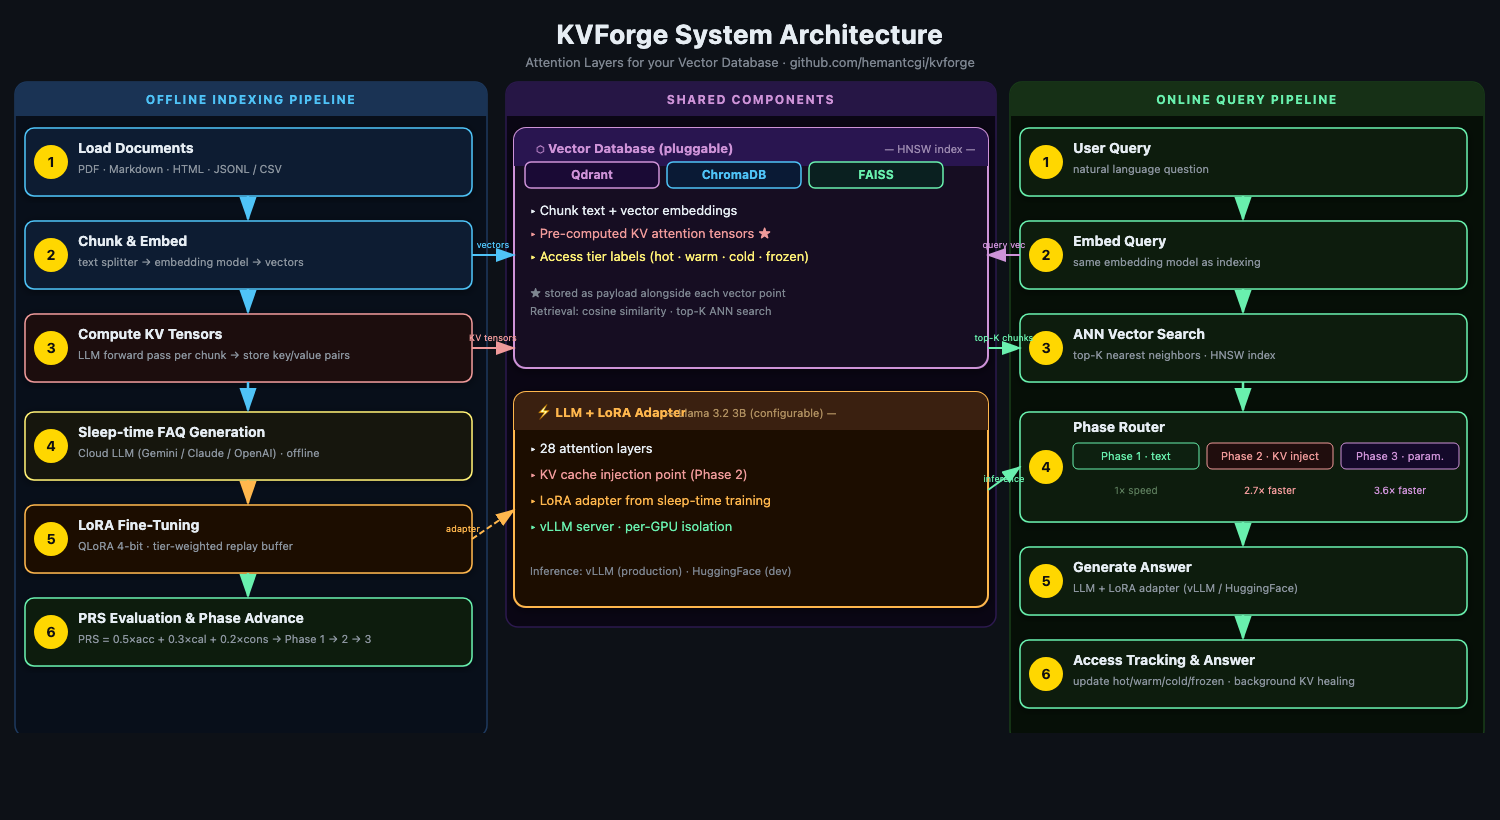
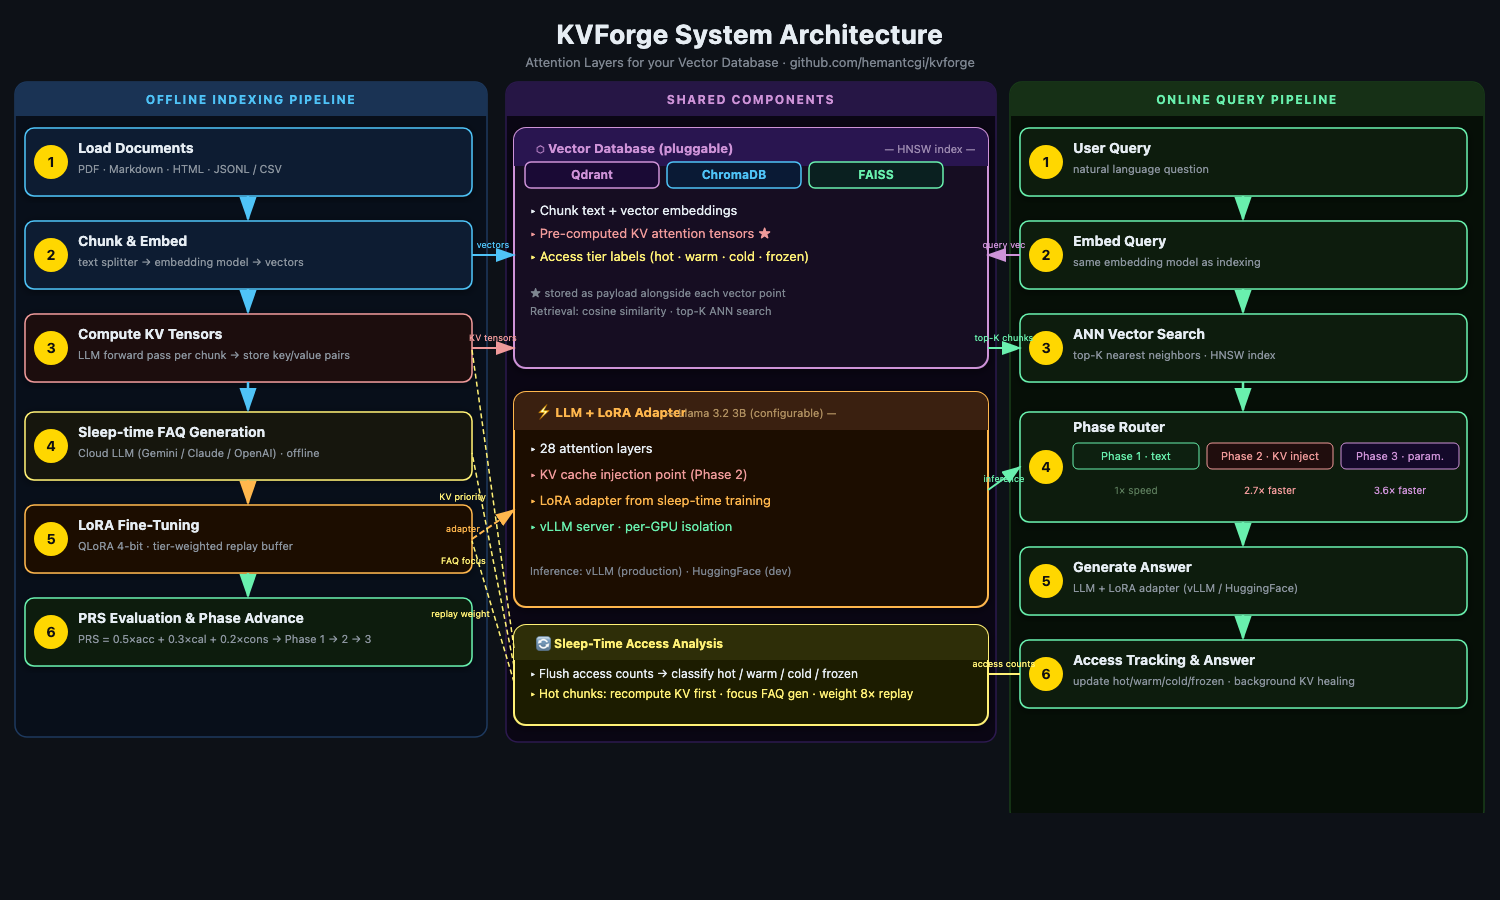
docs: add sleep-time access analysis detail to paper and diagram
Research paper:
- Expand §4.5 into full 'Sleep-Time Access Analysis and Tier Classification'
  section (3 subsections: continuous tracking, tier classification, downstream
  utilization with priority table for KV recompute, FAQ gen, replay buffer)
- Expand §6.3 with production impact analysis (KV latency reduction, training
  signal alignment, catastrophic forgetting prevention)

Architecture diagram:
- Add 'Sleep-Time Access Analysis' box in shared components column
- Add yellow dashed feedback arrows: Access Tracking → analysis box → KV
  Compute priority, FAQ generation focus, LoRA replay weight
- Update legend with sleep-time access feedback arrow type

Changed region(s): [[0.0, 0.0305, 1.0, 0.8537]]

diff --git a/docs/KVForge_Research_Paper.md b/docs/KVForge_Research_Paper.md
@@ -201,7 +201,19 @@ Generated FAQs serve two functions:
 1. **Training signal** for LoRA fine-tuning (`--faqs faqs.json`).
 2. **Confidence gate seed**: the FAQ question embeddings pre-populate `known_good_queries` in `version.json`, so the Phase 3 gate has prior knowledge of the corpus question distribution from the first PRS evaluation round.
 
-### 4.5 Tier Classification and Replay Buffer
+### 4.5 Sleep-Time Access Analysis and Tier Classification
+
+#### 4.5.1 Continuous Access Tracking
+
+Every query path — KVForge local inference (Model A), vLLM, or external cloud LLM comparison (Model B) — calls `kv_background.record_access(chunk_id, rank)` for each retrieved chunk. A background daemon accumulates these `(chunk_id, access_count, last_accessed_ts)` records in memory and periodically flushes them to the vector store payload.
+
+This flush-and-classify cycle is the *sleep-time access scan*: computation performed offline, between query bursts, with three goals:
+
+1. **Identify** which chunks are accessed most often by real user traffic.
+2. **Classify** each chunk into a tier that reflects its importance to live queries.
+3. **Shape** the three downstream pipeline stages that immediately follow: KV recomputation, FAQ generation, and LoRA training.
+
+#### 4.5.2 Tier Classification
 
 Chunks are classified into four tiers based on access frequency and recency:
 
@@ -210,11 +222,28 @@ Chunks are classified into four tiers based on access frequency and recency:
 | hot | Top 15% by access count, last accessed < 7 days | 8 |
 | warm | Next 50%, last accessed < 30 days | 4 |
 | cold | Remaining accessed chunks | 2 |
-| frozen | Never accessed | 1 |
+| frozen | Never accessed (access_count = 0) | 1 |
 
-Thresholds are dynamic: the 15% / 50% percentile boundaries scale with corpus size so that small corpora (100 chunks) and large corpora (50,000 chunks) have approximately the same tier distribution shape.
+Thresholds are dynamic: the 15th and 65th percentile access-count boundaries scale with corpus size, so small corpora (100 chunks) and large corpora (50,000 chunks) have the same tier distribution shape regardless of absolute traffic volume.
 
-The replay buffer is a SQLite database. During LoRA training, each mini-batch is sampled proportional to tier weight × replay ratio (default 20%). This ensures the fine-tuned model does not forget the knowledge most needed for live traffic, at the cost of only a 20% addition to the FAQ-derived training set.
+#### 4.5.3 Downstream Utilization of Access Tier Data
+
+The tier map produced by the sleep-time scan is consumed by three pipeline stages. The table below summarises how tier information flows through each stage:
+
+| Tier | KV Recompute Priority | FAQ Questions Generated | Replay Sample Weight |
+|------|:---------------------:|:-----------------------:|:--------------------:|
+| hot  | 1st — immediate | 8× budget share | 8 |
+| warm | 2nd | 4× budget share | 4 |
+| cold | 3rd | 2× budget share | 2 |
+| frozen | Last — deferred | 1× budget share | 1 |
+
+**KV Recomputation Priority Queue.** Every LoRA update invalidates all stored KV tensors. Recomputing all chunks in a single burst is expensive (~0.20 s/chunk). Instead, the `kv_background` daemon processes chunks in tier order — hot first, frozen last. This minimizes the window during which high-traffic chunks serve stale KV tensors (Phase 1 text fallback), while deferring recomputation of rarely-accessed chunks to idle GPU time. In a 2,520-chunk corpus, hot chunks (~378 chunks, top 15%) are fully recomputed in approximately 76 seconds, restoring Phase 2 quality for the majority of live user queries before the full recompute completes.
+
+**FAQ Generation Allocation.** When the total FAQ budget is smaller than `total_chunks × questions_per_chunk`, the FAQ generator cannot cover every chunk equally. KVForge distributes the question budget in proportion to tier weight: a hot chunk receives 8× the question allocation of a frozen chunk. This concentrates training signal on the knowledge most relevant to actual user queries, rather than applying equal effort to chunks that are never retrieved.
+
+**Replay Buffer Sampling.** The SQLite replay buffer stores `(chunk_id, tier, text, answer)` rows derived from the generated FAQs. During LoRA training, each mini-batch mixes primary FAQ samples with replayed samples drawn proportional to tier weight (default replay fraction: 20%). With the default weights, approximately 60% of replayed samples come from hot and warm chunks combined, biasing the gradient signal toward the knowledge most likely to be tested by live traffic. This design serves as a lightweight proxy for elastic weight consolidation [18]: rather than constraining weight updates directly, it over-represents high-traffic knowledge in the training distribution.
+
+The net effect is a feedback loop: live query traffic shapes access tiers → tiers shape FAQ generation and training → the fine-tuned model improves most on the content users actually query.
 
 ### 4.6 Parametric Readiness Score (PRS)
 
@@ -407,9 +436,17 @@ Several mitigations are possible:
 2. **Background healing**: the `kv_background` daemon continuously recomputes stale chunks during idle GPU time, amortizing the cost across the retraining interval.
 3. **Larger LoRA rank**: higher rank adapters produce larger KV delta per training step, reaching PRS thresholds faster and reducing the number of recompute rounds.
 
-### 6.3 Tier System Effectiveness
+### 6.3 Sleep-Time Access Loop: Design and Expected Production Behavior
 
-The tier-weighted replay buffer prevents catastrophic forgetting by oversampling high-traffic chunks during LoRA training. In our experiments, all chunks remained at `tier=frozen` during the training phase (no live query traffic), so the replay buffer defaulted to uniform sampling. In a production deployment with real user traffic, we expect the tier weighting to show clearer benefit: the most-queried documents are the ones most likely to cause user-visible quality regressions if forgotten.
+The sleep-time access loop closes a feedback cycle between live query traffic and the offline training pipeline. In our experiments, all chunks remained at `tier=frozen` during the training phase because evaluation traffic did not constitute real user traffic, so the replay buffer defaulted to uniform sampling and KV recomputation proceeded in arbitrary order.
+
+In a production deployment with organic query traffic, the loop is expected to produce three measurable effects:
+
+**KV recompute latency reduction.** If 20% of chunks account for 80% of user queries (a typical Pareto distribution), hot-first recomputation means that 80% of query traffic has fresh KV tensors within the first 20% of the recompute window. The remaining 80% of chunks (frozen/cold) can be recomputed lazily without impacting most users.
+
+**Training signal alignment.** Without tier-weighted FAQ generation, a random 50-question FAQ set drawn from 2,520 chunks covers 2% of the corpus. With tier weighting, those 50 questions are concentrated on the ~378 hot chunks that matter most for user queries, improving the signal-to-noise ratio of the training set by a factor proportional to the tier weight differential (up to 8×).
+
+**Catastrophic forgetting prevention.** The most common failure mode in continual LoRA fine-tuning is forgetting high-frequency knowledge in favour of recently added corpus sections. Tier-weighted replay directly addresses this: new or rarely-queried chunks receive minimal replay weight, while established hot-chunk knowledge is over-represented in every mini-batch. We expect this to become the dominant quality lever as KVForge corpora mature and access distributions stabilize around a core set of high-traffic documents.
 
 ### 6.4 Multi-Tenant Deployment
 
